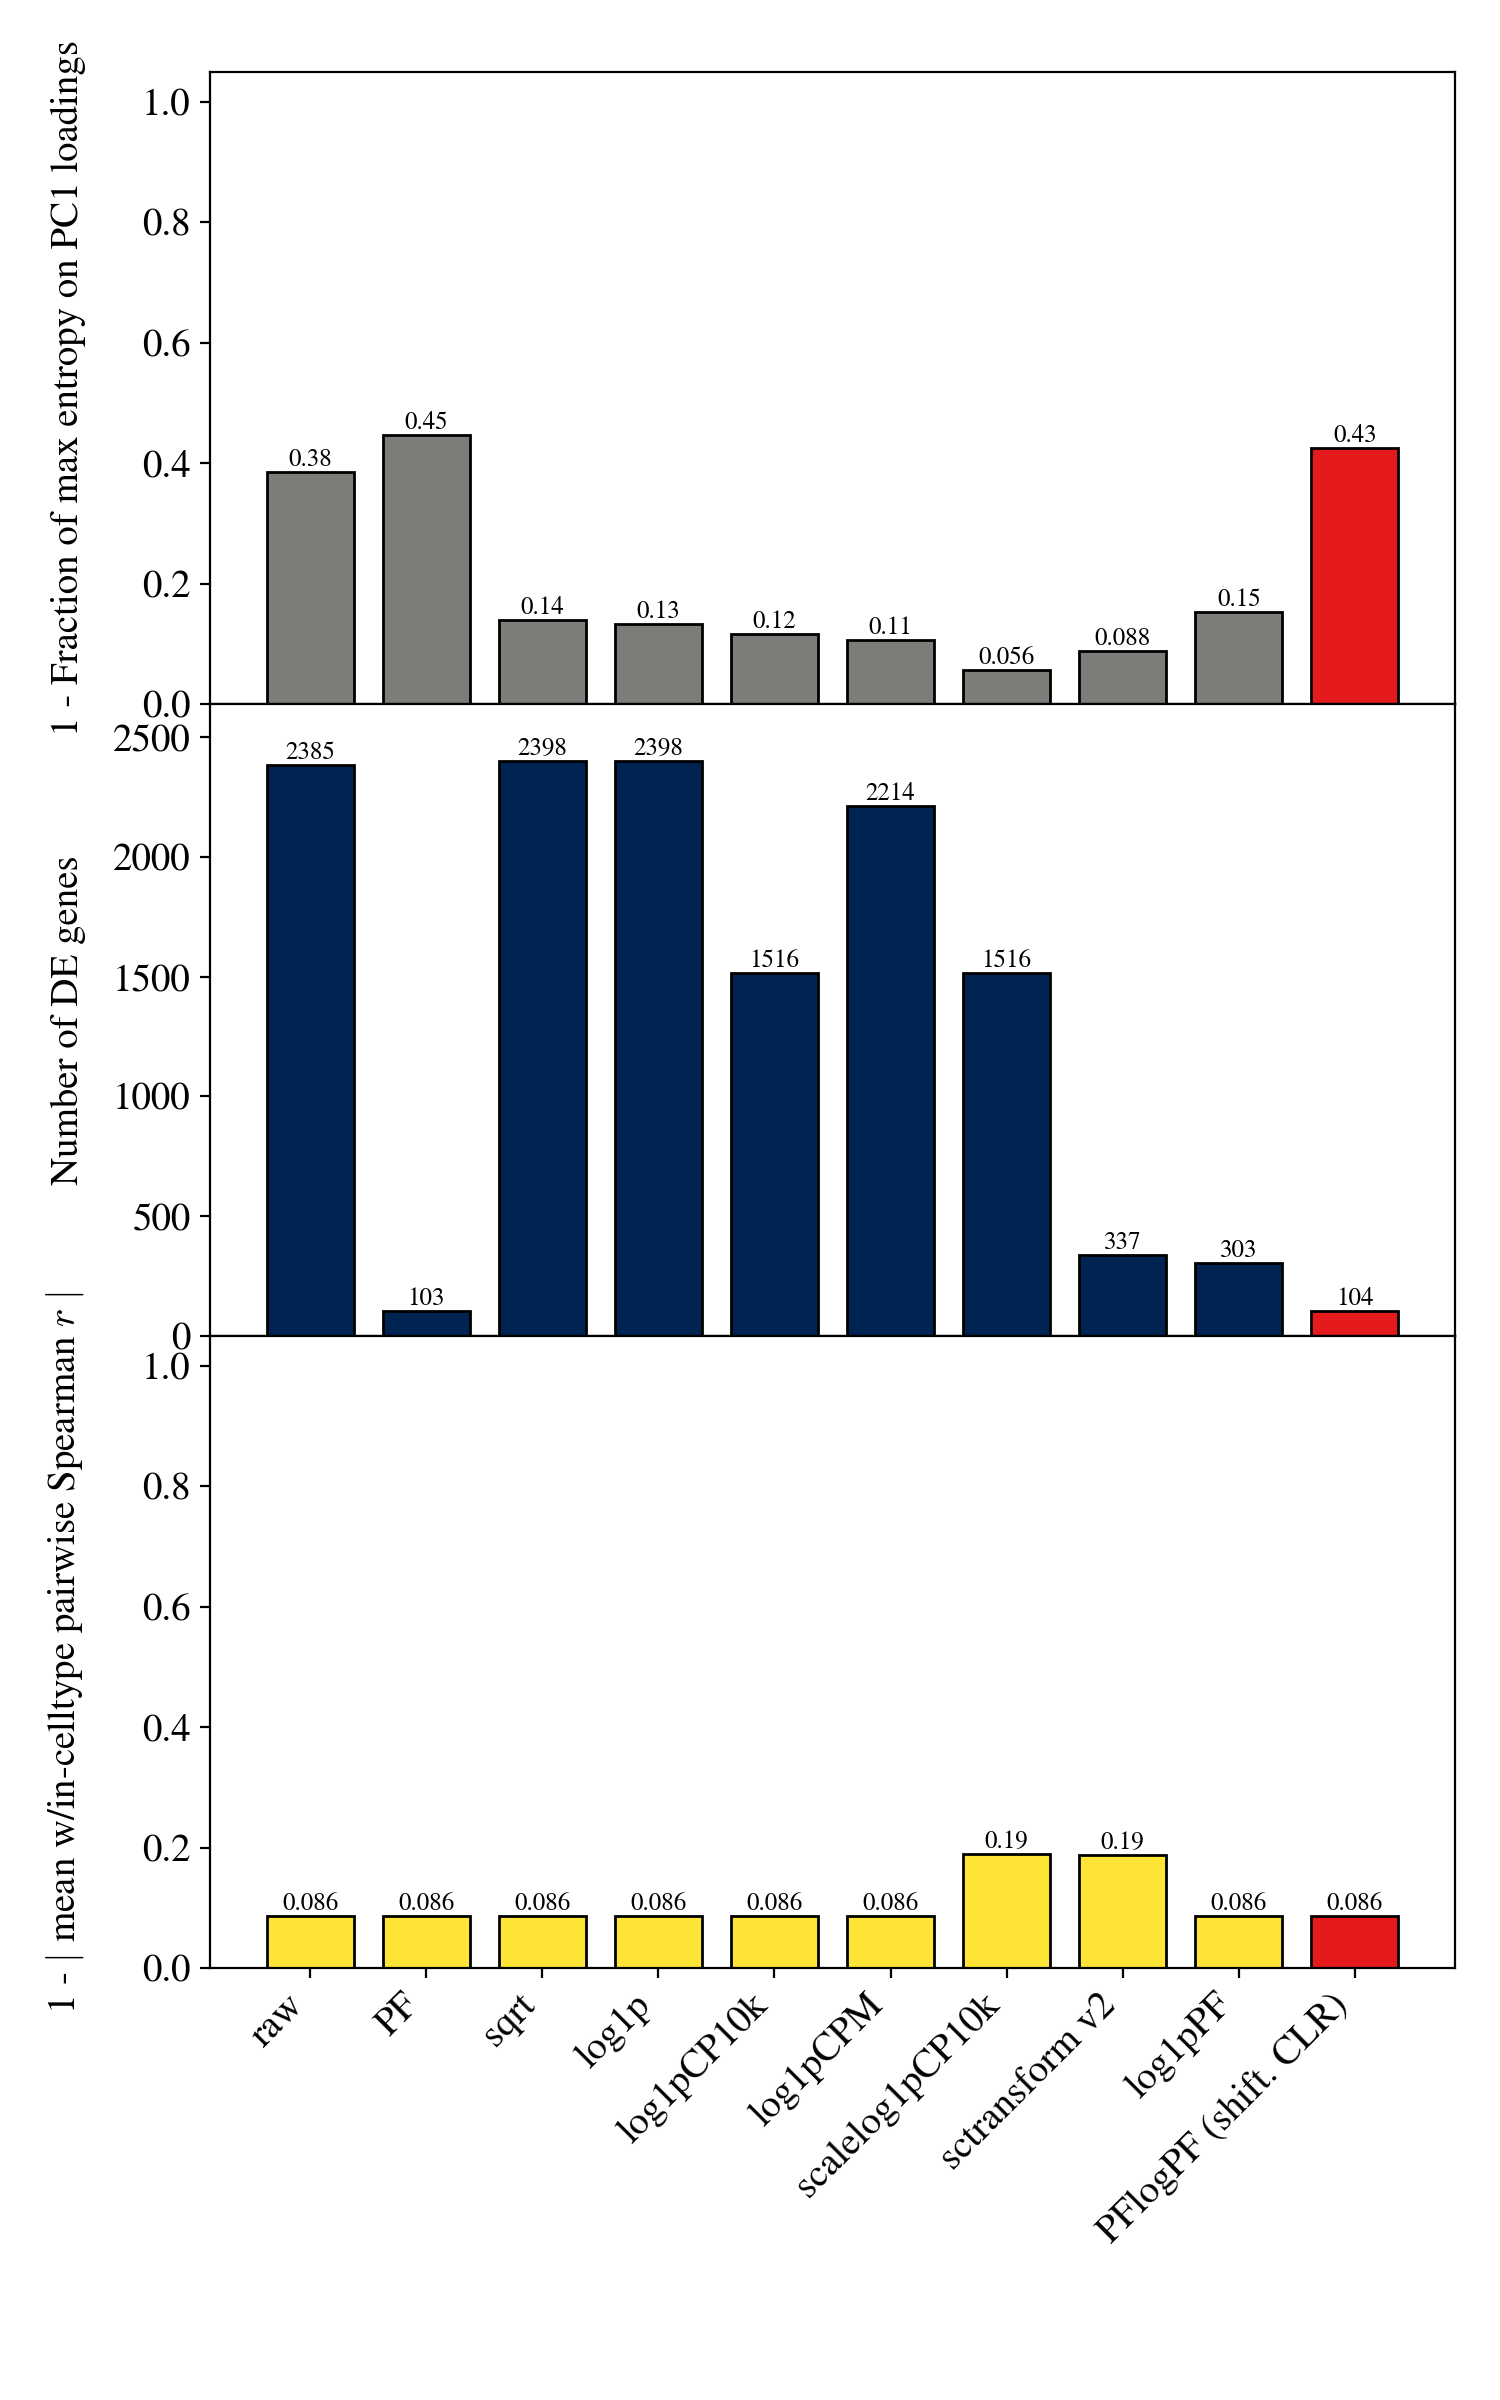
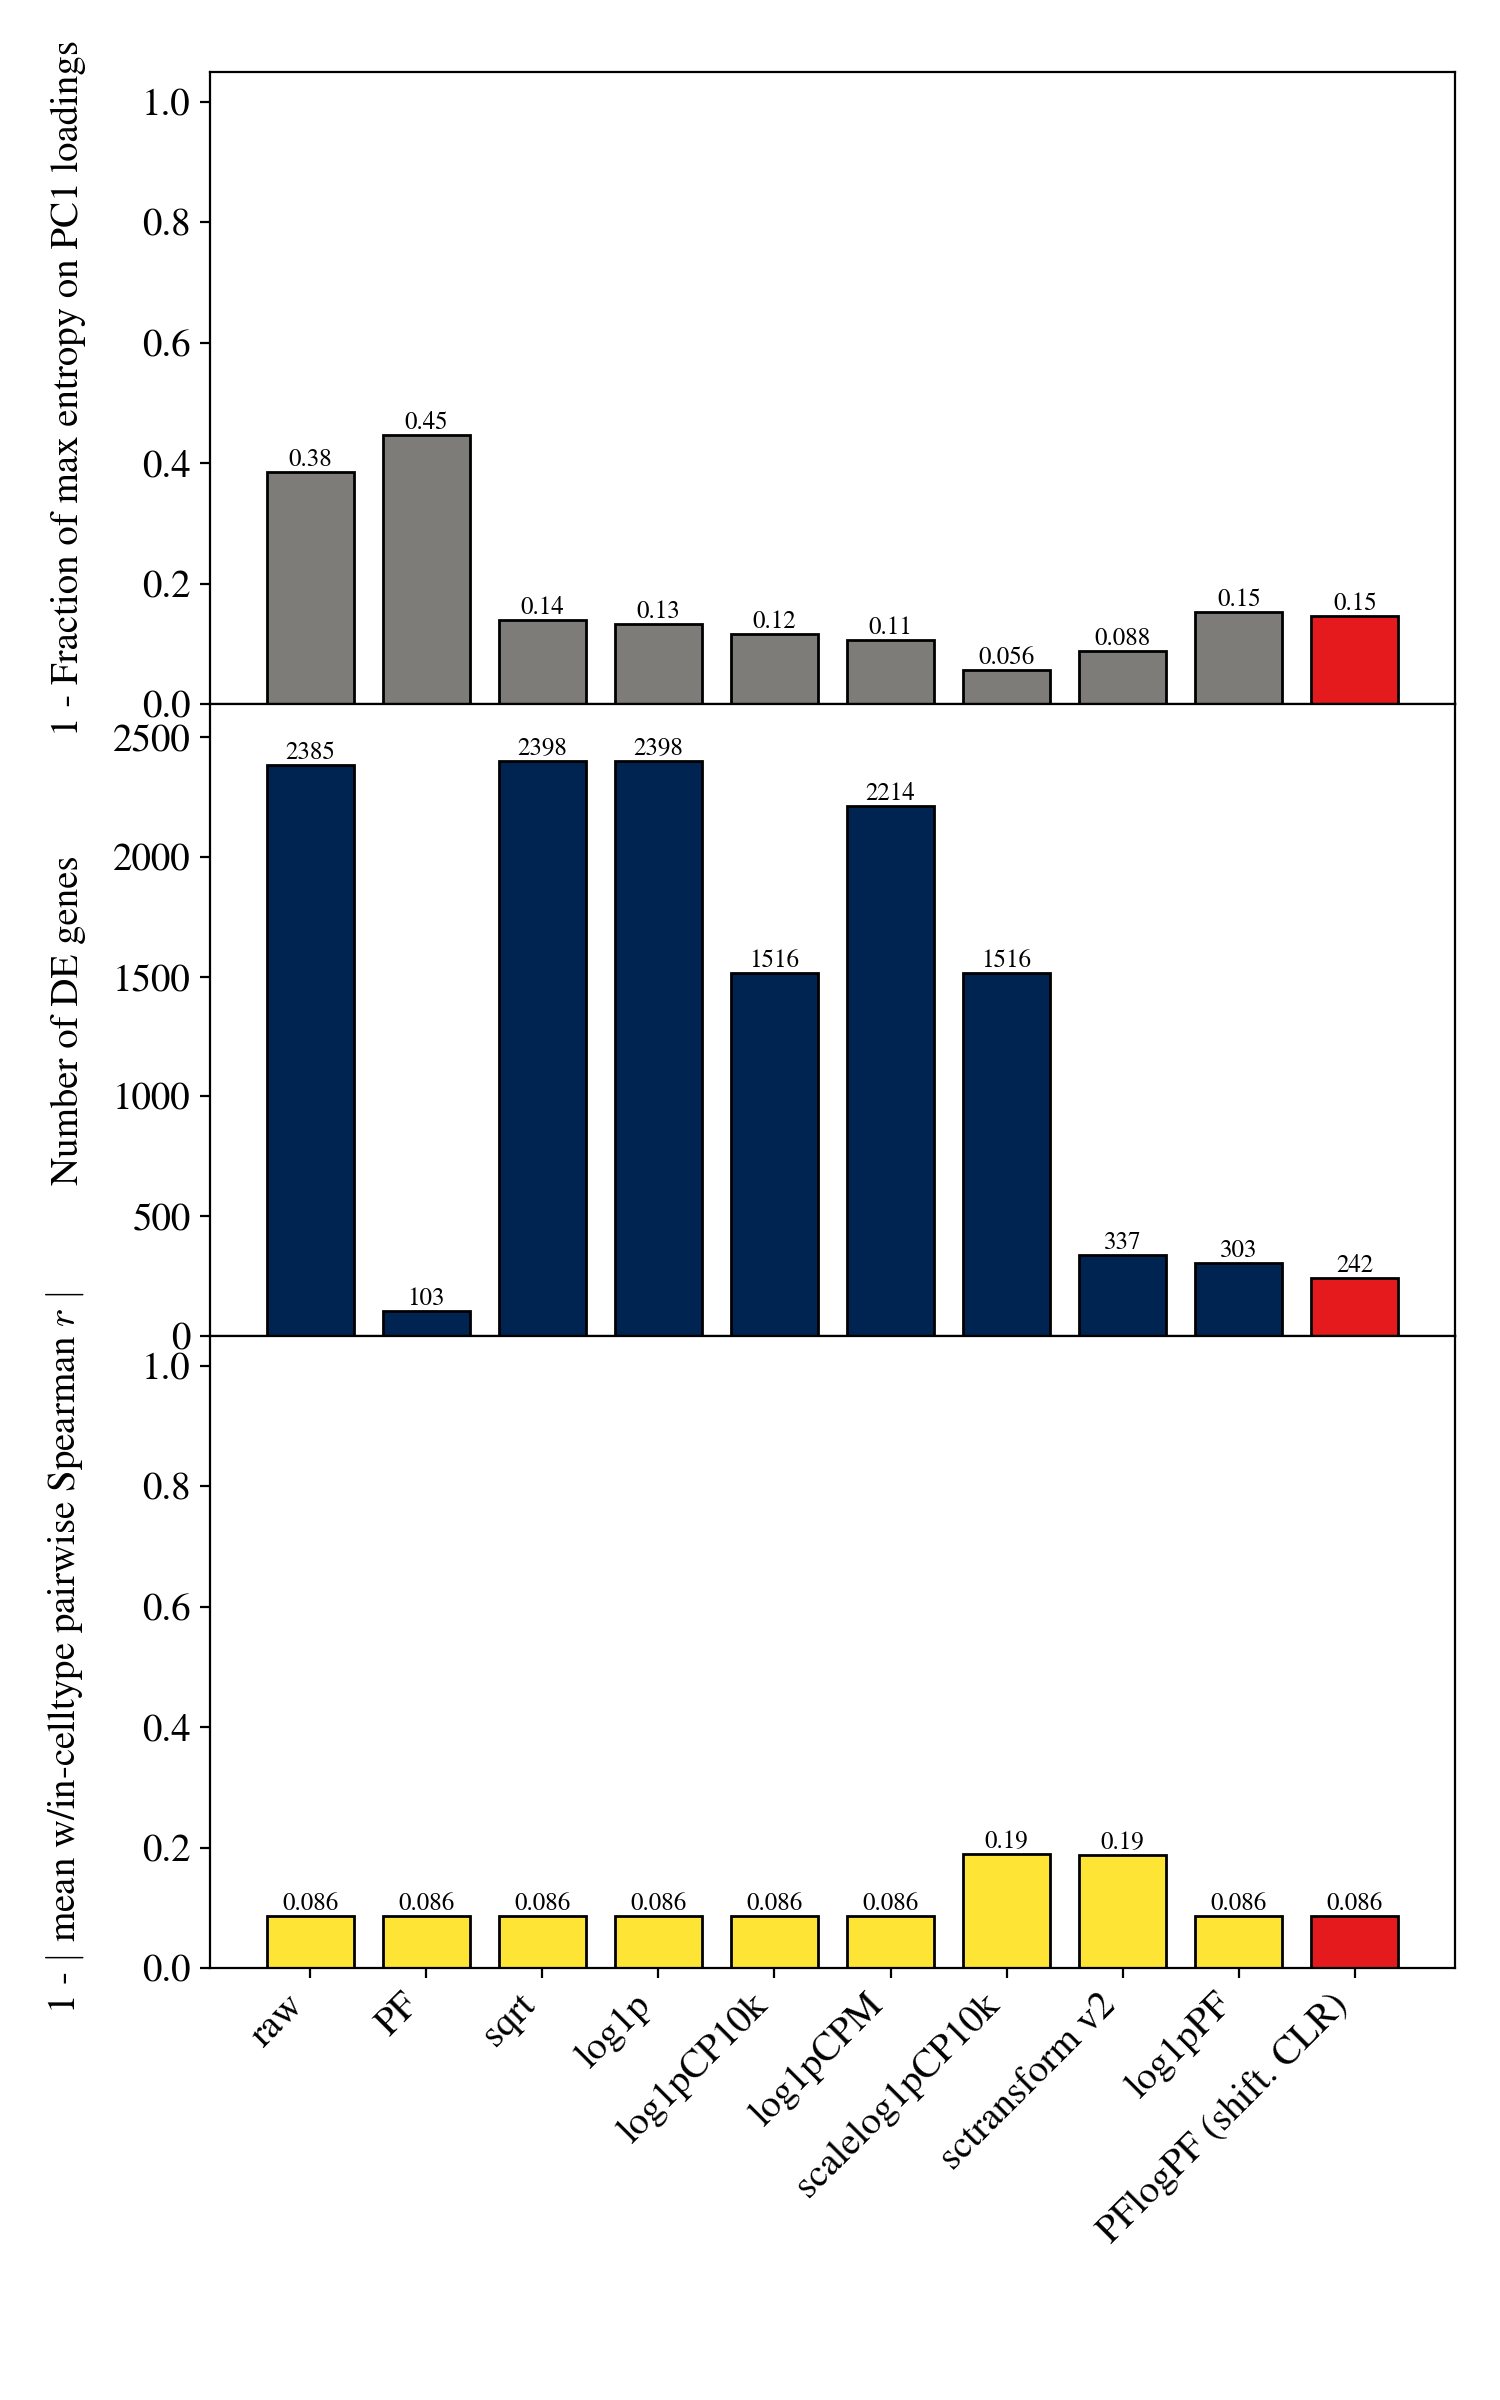
PFlogPF = PF(mean)->log1p->additive CLR centering; redo angelidis celltype bar
norm_clr first PF now scales to mean depth (sf=mean) instead of sf=1. The sf=1
composition made log(u+1)~u (near-linear, no variance stabilization, cov_gene~68);
sf=mean restores log compression while keeping additive centering, so PFlogPF is
now strong on all three axes: cov_gene 68->3.0, 1-PC1entropy 0.43->0.15, depth
r2=0 and monotonicity (Spearman 0.914) unchanged (FP-DE 104->242, still 2nd-lowest).
Equivalent to shifted CLR with a small variance-stabilization shift c/mean_depth.

Changed region(s): [[0.8587, 0.1562, 0.9507, 0.2812], [0.8587, 0.5312, 0.9507, 0.5625]]

diff --git a/scripts/norm_sparse.py b/scripts/norm_sparse.py
@@ -43,18 +43,24 @@ def norm_sqrt(mtx):
     sqrt = np.sqrt(mtx)
     return sqrt
 
-def norm_clr(mtx, c=1.0):
-    """Shifted CLR: T(x)_i = log(x_i/s + c) - mean_j(log(x_j/s + c)).
+def norm_clr(mtx, c=1.0, sf=None):
+    """PFlogPF (shifted CLR): first PF to depth `sf`, then log(.+c), then additive
+    per-cell centering (the CLR step).
 
-    Output is dense — per-cell mean centering destroys sparsity. With c=1, this
-    is mathematically equivalent to PFlog1pPF where the second PF is additive
-    cell-centering (see docs/current_paper/supplementary-note/supplementary-note.tex
-    for the proof). Inherits Aitchison's scale invariance for free; per-cell sums
-    of the output are exactly 0 for any c > 0.
+    Default sf=None -> mean cell depth, i.e. PF -> log1p -> center. This keeps the
+    log compression (variance stabilization) AND the centering (depth removal +
+    within-cell rank preservation); output is dense (centering fills zeros) with
+    per-cell sums exactly 0. It is a shifted CLR on the composition with effective
+    shift c/mean_depth -- a small, variance-stabilization-motivated shift (cf. the
+    Supplementary Note's shift-selection criterion).
+
+    sf=1.0 (each cell sums to 1) gives an *exactly* scale-invariant CLR, but with
+    c=1 the pseudocount dwarfs the composition (u_i ~ 1e-3 so log(u+1)~u), giving
+    no variance stabilization; sf=mean restores it at the cost of only approximate
+    global-scale invariance (depth removal via centering is still exact).
     """
-    # u = x / s (each row sums to 1.0). Use sf=1.0 explicitly; do_pf's truthy
-    # check (`if not sf`) treats 1.0 as truthy so this branch is preserved.
-    u = do_pf(mtx, sf=1.0)
+    # sf=None -> do_pf uses the mean cell depth.
+    u = do_pf(mtx, sf=sf)
     D = mtx.shape[1]
     log_c = np.log(c)
 
